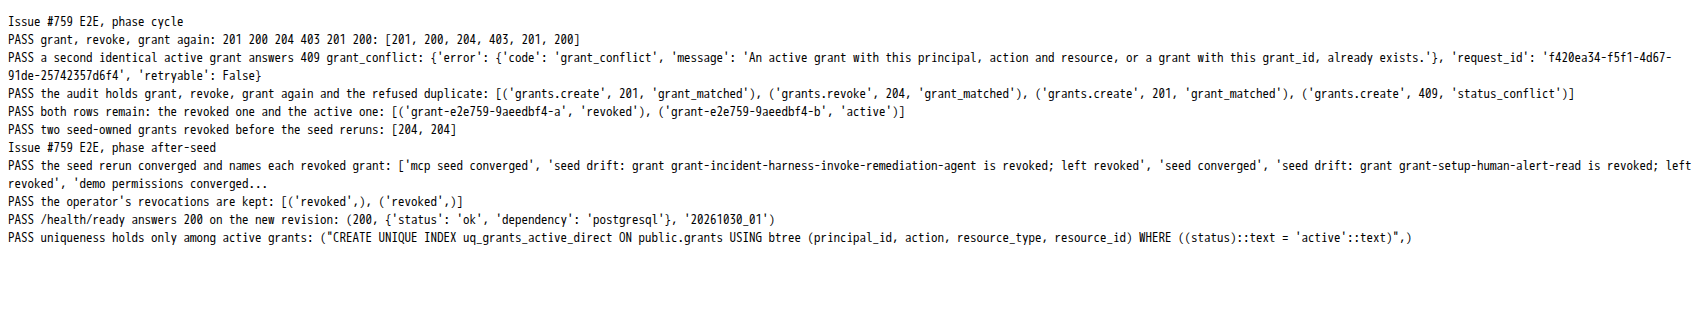
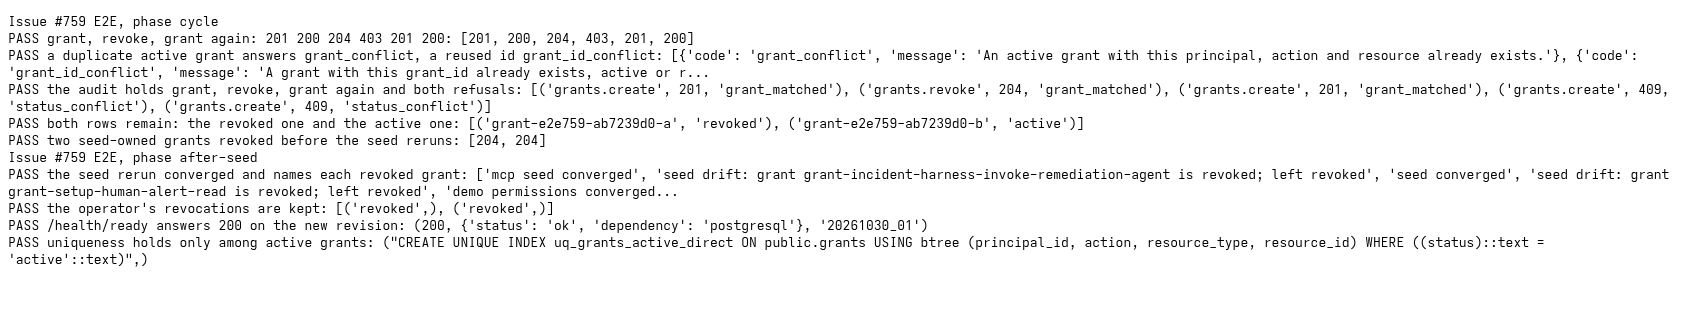
test(e2e): show both grant conflicts and run the seed as the host user (#759)

Changed region(s): [[0.0, 0.0303, 0.9976, 0.8182]]

diff --git a/scripts/grant_regrant_e2e.py b/scripts/grant_regrant_e2e.py
@@ -4,7 +4,8 @@
 Phase `cycle`: as admin-human, grant restricted-harness `admin.read` on the principals list,
 revoke it and grant it again under a new grant_id and Idempotency-Key. Its access goes
 200 -> 403 -> 200 and the audit holds the three grant events. A second identical active grant
-answers 409 `grant_conflict`. Then one core seed grant and one setup grant are revoked.
+answers 409 `grant_conflict`; reusing the revoked grant_id answers 409 `grant_id_conflict`.
+Then one core seed grant and one setup grant are revoked.
 Phase `after-seed` (after the seed and provision_demo.py ran again): the seed output names
 both revoked grants as drift, they stay revoked, /health/ready answers 200 on the partial
 unique index revision. Appends to $ARTIFACT_DIR/issue-759-e2e.txt; exits 1 on a failed check.
@@ -74,12 +75,12 @@ def cycle(db: psycopg.Connection) -> None:
         observed == [201, 200, 204, 403, 201, 200],
         observed,
     )
-    status, duplicate = grant(f"grant-e2e759-{STAMP}-c")
-    code = duplicate["error"]["code"]
+    refused = [grant(f"grant-e2e759-{STAMP}-c"), grant(first)]
     check(
-        "a second identical active grant answers 409 grant_conflict",
-        (status, code) == (409, "grant_conflict"),
-        duplicate,
+        "a duplicate active grant answers grant_conflict, a reused id grant_id_conflict",
+        [(status, body["error"]["code"]) for status, body in refused]
+        == [(409, "grant_conflict"), (409, "grant_id_conflict")],
+        [body["error"] for _, body in refused],
     )
     rows = db.execute(
         "SELECT operation, response_status, reason_code FROM audit_events "
@@ -92,9 +93,10 @@ def cycle(db: psycopg.Connection) -> None:
         ("grants.revoke", 204),
         ("grants.create", 201),
         ("grants.create", 409),
+        ("grants.create", 409),
     ]
     check(
-        "the audit holds grant, revoke, grant again and the refused duplicate",
+        "the audit holds grant, revoke, grant again and both refusals",
         [r[:2] for r in rows] == expected,
         rows,
     )
